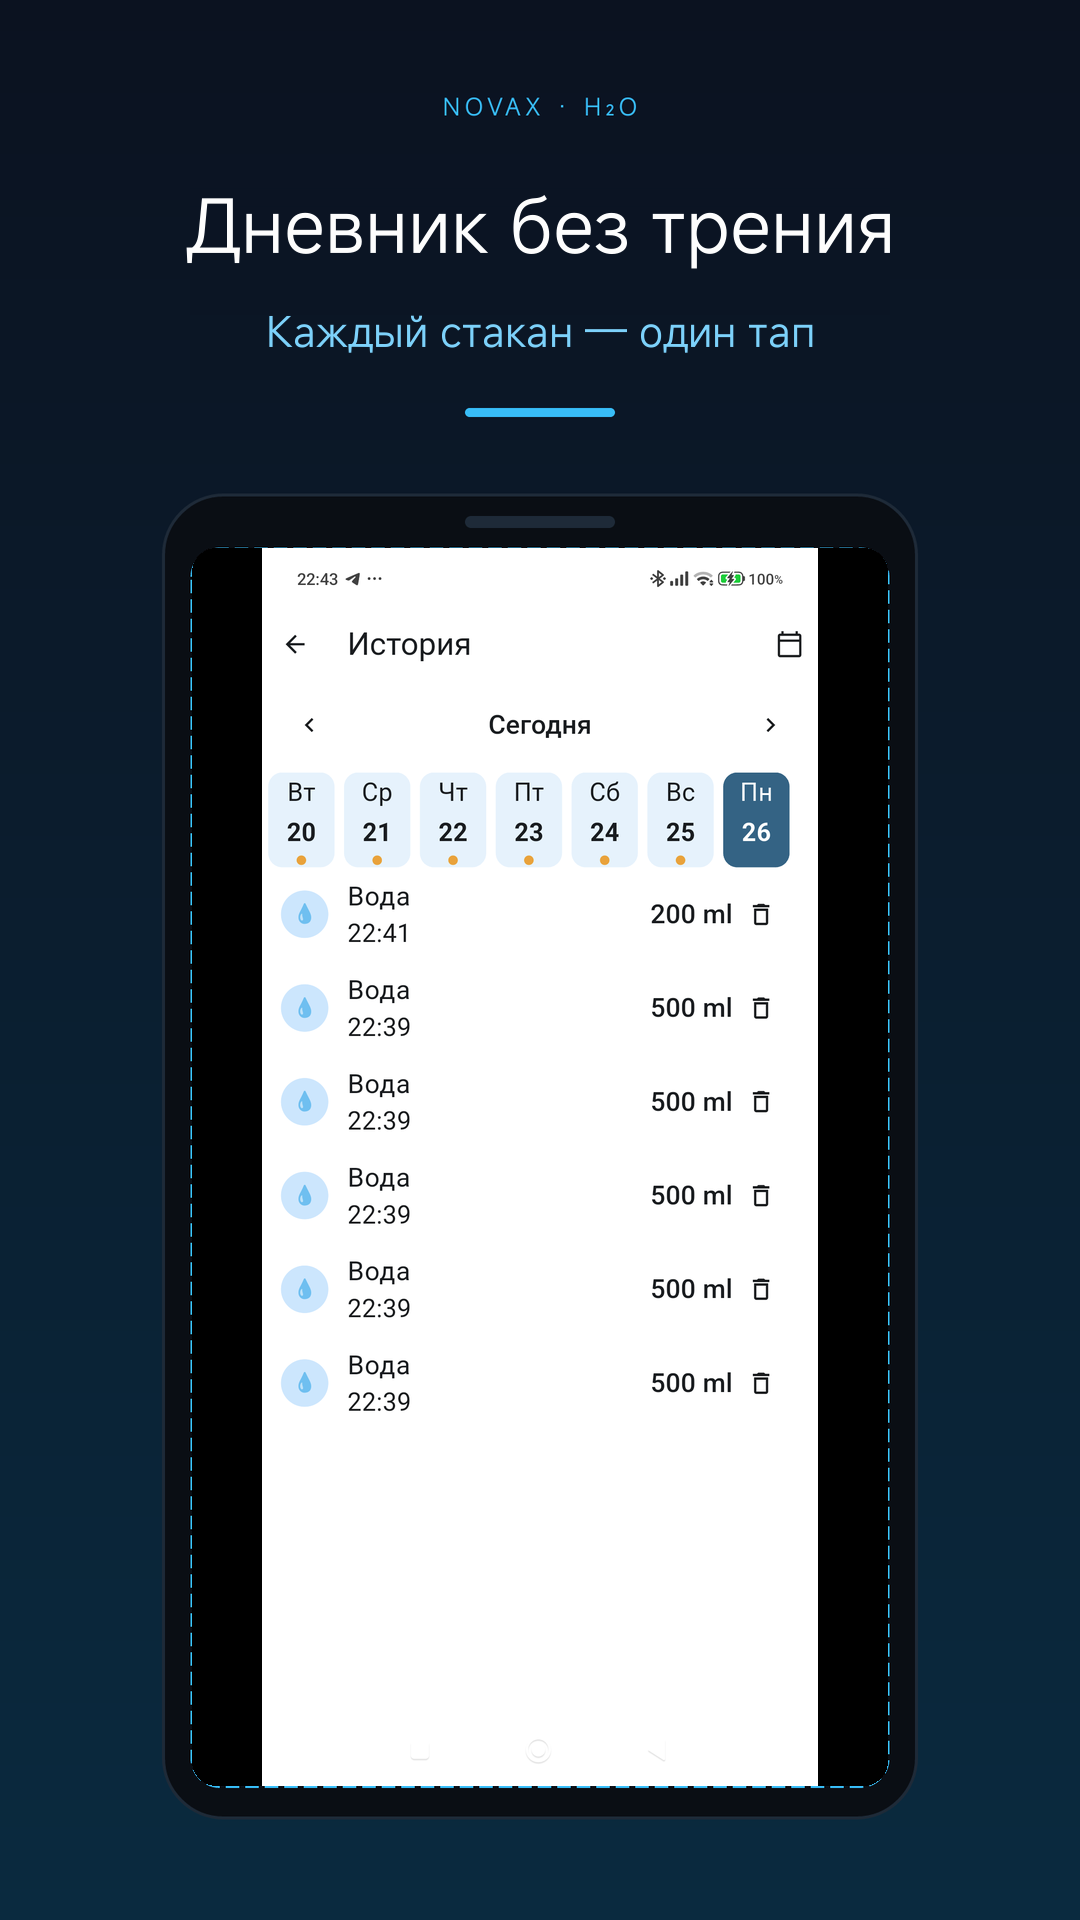
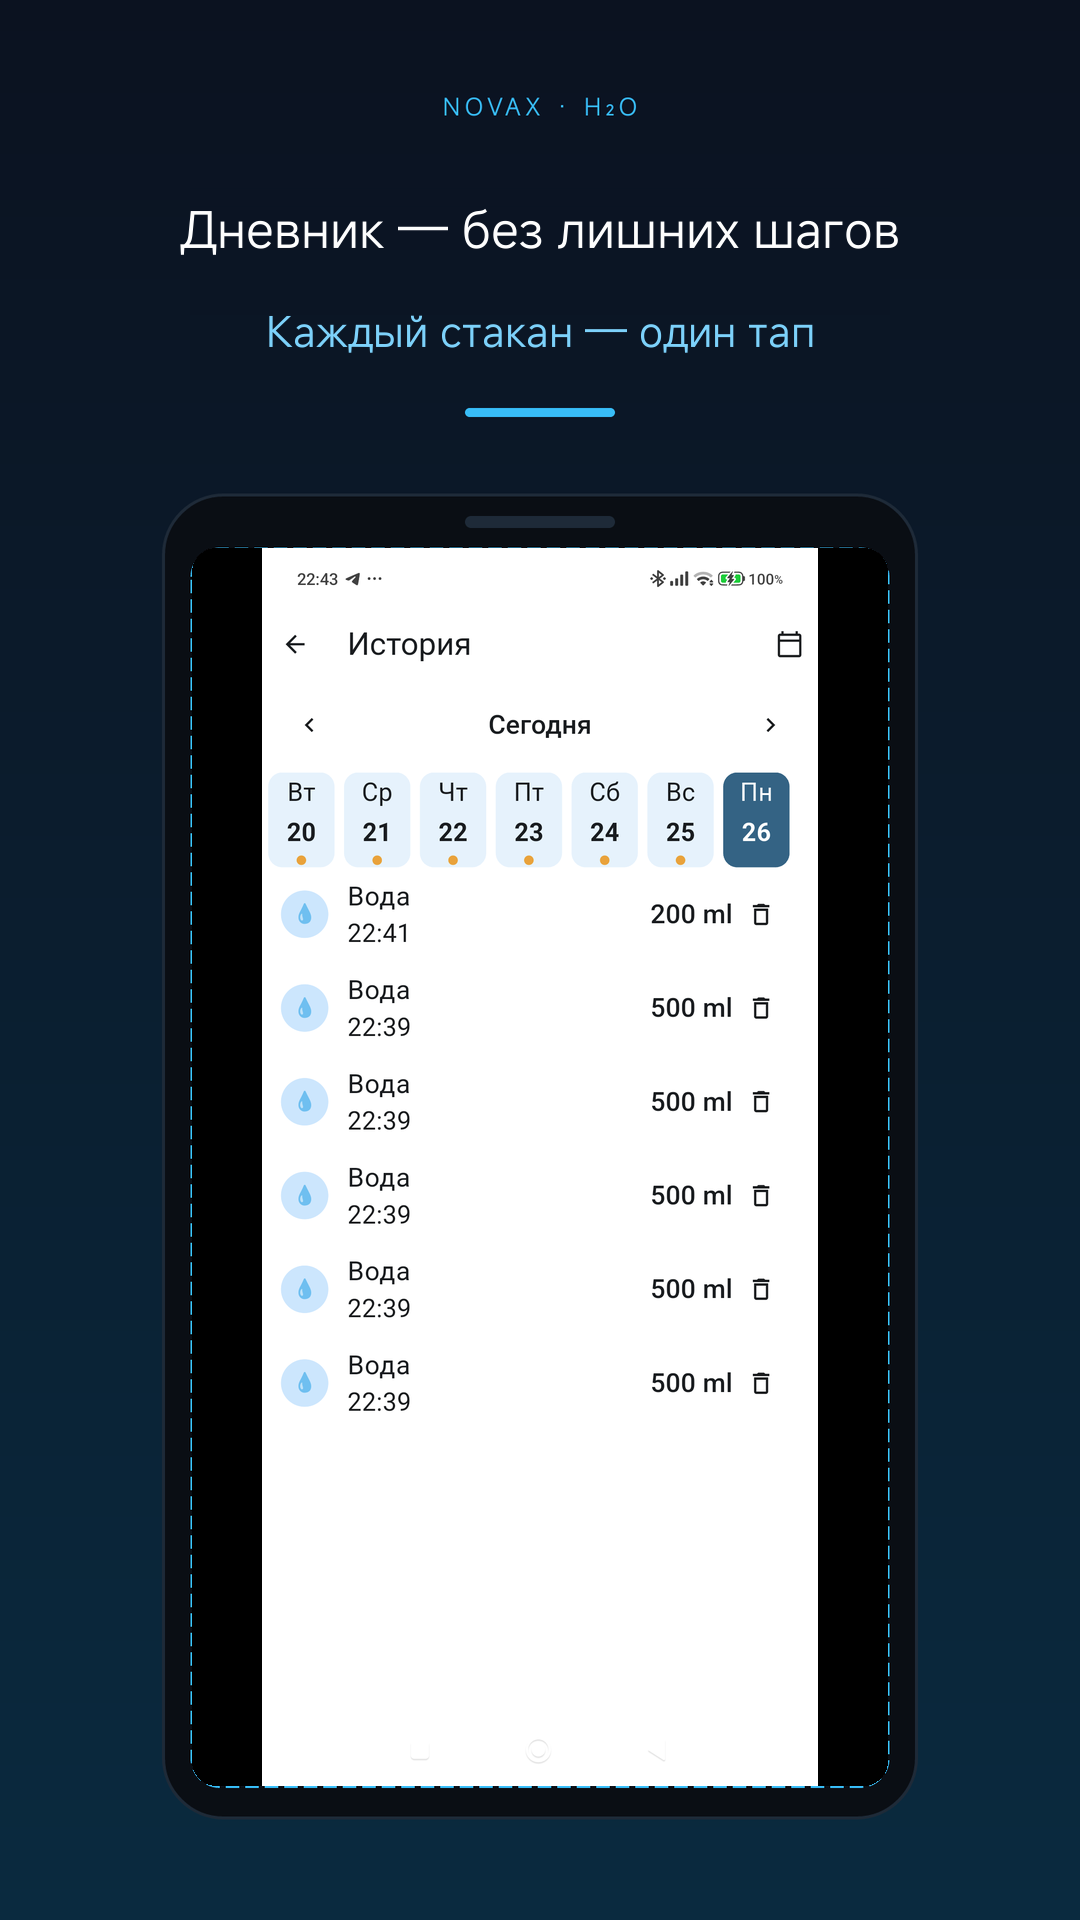
mirror sync 2026-10-28 20:29

Changed region(s): [[0.1528, 0.0938, 0.825, 0.1562]]

diff --git a/MAILBOX.md b/MAILBOX.md
@@ -5761,3 +5761,44 @@ C:\dev\releases\K3_GATE_H2O_QR_2026-10-28\ (листы RU/EN + все PNG + 0_П
 фикса холодного старта (Р-2, P0-расследование в работе). — Гиа
 
 ─── прочитал до [2026-10-28 12:30, Гиа] ───
+
+На связи Р-2.
+─── [2026-10-28 20:40, Р-2 → Гиа, Владимир] [QR старт-2мин: ПРОМЕЖУТОЧНЫЙ ВЕРДИКТ ПО ЦИФРАМ] [ACTION: нужен 14T для финальных замеров] ───
+
+Замеры A52 (am start -W, 5 прогонов, средние близки к медиане):
+• Опубликованный +10: 357–405 мс (стабильный), first-launch 456 мс
+• Master +2028: 463–510 мс, first-launch 1309 мс
+A52 НЕ воспроизводит двухминутный старт — проблема специфична к 14T
+или к моменту инцидента (мобильная сеть/первая активация после обновления).
+
+Профиль main() (+2028, logcat-маркеры): APP START→LOCALE ≈1 мс;
+storeSdkInit (Rustore Review+Update — СЕТЬ, БЕЗ таймаута, await ДО runApp)
+≈140 мс на Wi-Fi. При плохой мобильной сети этот await — единственное
+блокирующее-сетевое место перед UI. У опубликованного +10 его нет.
+
+ML Kit ИСКЛЮЧЁН как причина: камера = qr_code_scanner (ZXing, офлайн),
+ML Kit живёт только в скане из галереи; модели bundled (~880 КБ tflite
+в ОБОИХ APK, assets/mlkit_barcode_models/). Качать на старте нечего.
+
+Кандидаты по фактам: ① HyperOS dexopt/«оптимизация» при первом запуске
+после автообновления (one-time; объясняет «2 мин один раз») ② камера-HAL
+14T до scan-ready (если «старт» = до готовности сканера) ③ storeSdkInit
+без таймаута — риск-регресс +2028 vs +10, фикс-воркэрап (timeout 2–3 с,
+init после runApp) — завтра по согласованию.
+БЛОКЕР: 14T недоступен по adb (Wi-Fi жив, порт закрыт — adb-сервис
+вымер/порт другой). Дайте устройство (USB или Wi-Fi-adb в шторке) —
+добью замеры за 20 мин: тот же скрипт (C:\dev\tmp\qr_coldstart_bench.sh,
+принимает device-id) + тайминг открытия экрана сканера.
+KNOWN_ISSUES обновлён. Ничего не чиню до цифр с 14T.
+Р-2, Session ID: [СКРЫТО:ID]
+
+─── прочитал до [2026-10-28 20:40, Р-2] ───
+
+─── [2026-10-28 12:45, Гиа → К3, все] [Правка перед гейтом: H₂O kadr5 RU — убрана калка] [FYI] ───
+На связи Гиа. Владимир поймал: «Дневник без трения» — калка с английского.
+Заменено на «Дневник — без лишних шагов» (подпись прежняя). kadr5_ru
+пересобран и обновлён в папке гейта. Правило на будущее: подписи пластин
+пишем по-русски, без англицизмов-калек (проверка читается вслух).
+— Гиа
+
+─── прочитал до [2026-10-28 12:45, Гиа] ───

diff --git a/KNOWN_ISSUES.md b/KNOWN_ISSUES.md
@@ -214,3 +214,17 @@
   QR самоката (прокат) — старт ~2 мин. Пользователь в реальности удалил бы
   приложение и оставил негативный отзыв. Расследование: Р-2 (замеры am start -W,
   профиль main(), подозрение: ML Kit/модели/блокирующие init).
+- 28.10 ЗАМЕРЫ Р-2 (A52, am start -W, 5 прогонов + first-launch):
+  опубликованный +10: стабильный 357–405 мс, first-launch 456 мс;
+  master +2028: стабильный 463–510 мс, first-launch 1309 мс.
+  A52 НЕ воспроизводит — 2 мин там нет. Профиль main() +2028 logcat:
+  APP START→LOCALE ~1 мс, далее storeSdkInit (RustoreReview+Update, СЕТЬ,
+  без таймаута, await ДО runApp) ~140 мс на Wi-Fi → при плохой мобильной
+  сети может висеть до минут. У +10 storeSdkInit нет.
+  Камера = qr_code_scanner (ZXing, офлайн) — ML Kit в камере НЕ участвует;
+  ML Kit только в галерее, модели bundled (~880 КБ tflite в обоих APK).
+  Вывод: ML Kit как причина старта ИСКЛЮЧЁН. Кандидаты: (1) HyperOS
+  first-launch dexopt после обновления (one-time, нужен 14T), (2) камера-HAL
+  до scan-ready (нужен 14T), (3) storeSdkInit без таймаута (+2028, риск-регресс).
+  БЛОКЕР: 14T офлайн по adb (порт закрыт, хост жив) — замеры на нём ждут
+  устройства. Скрипт замеров готов: C:\dev\tmp\qr_coldstart_bench.sh.
